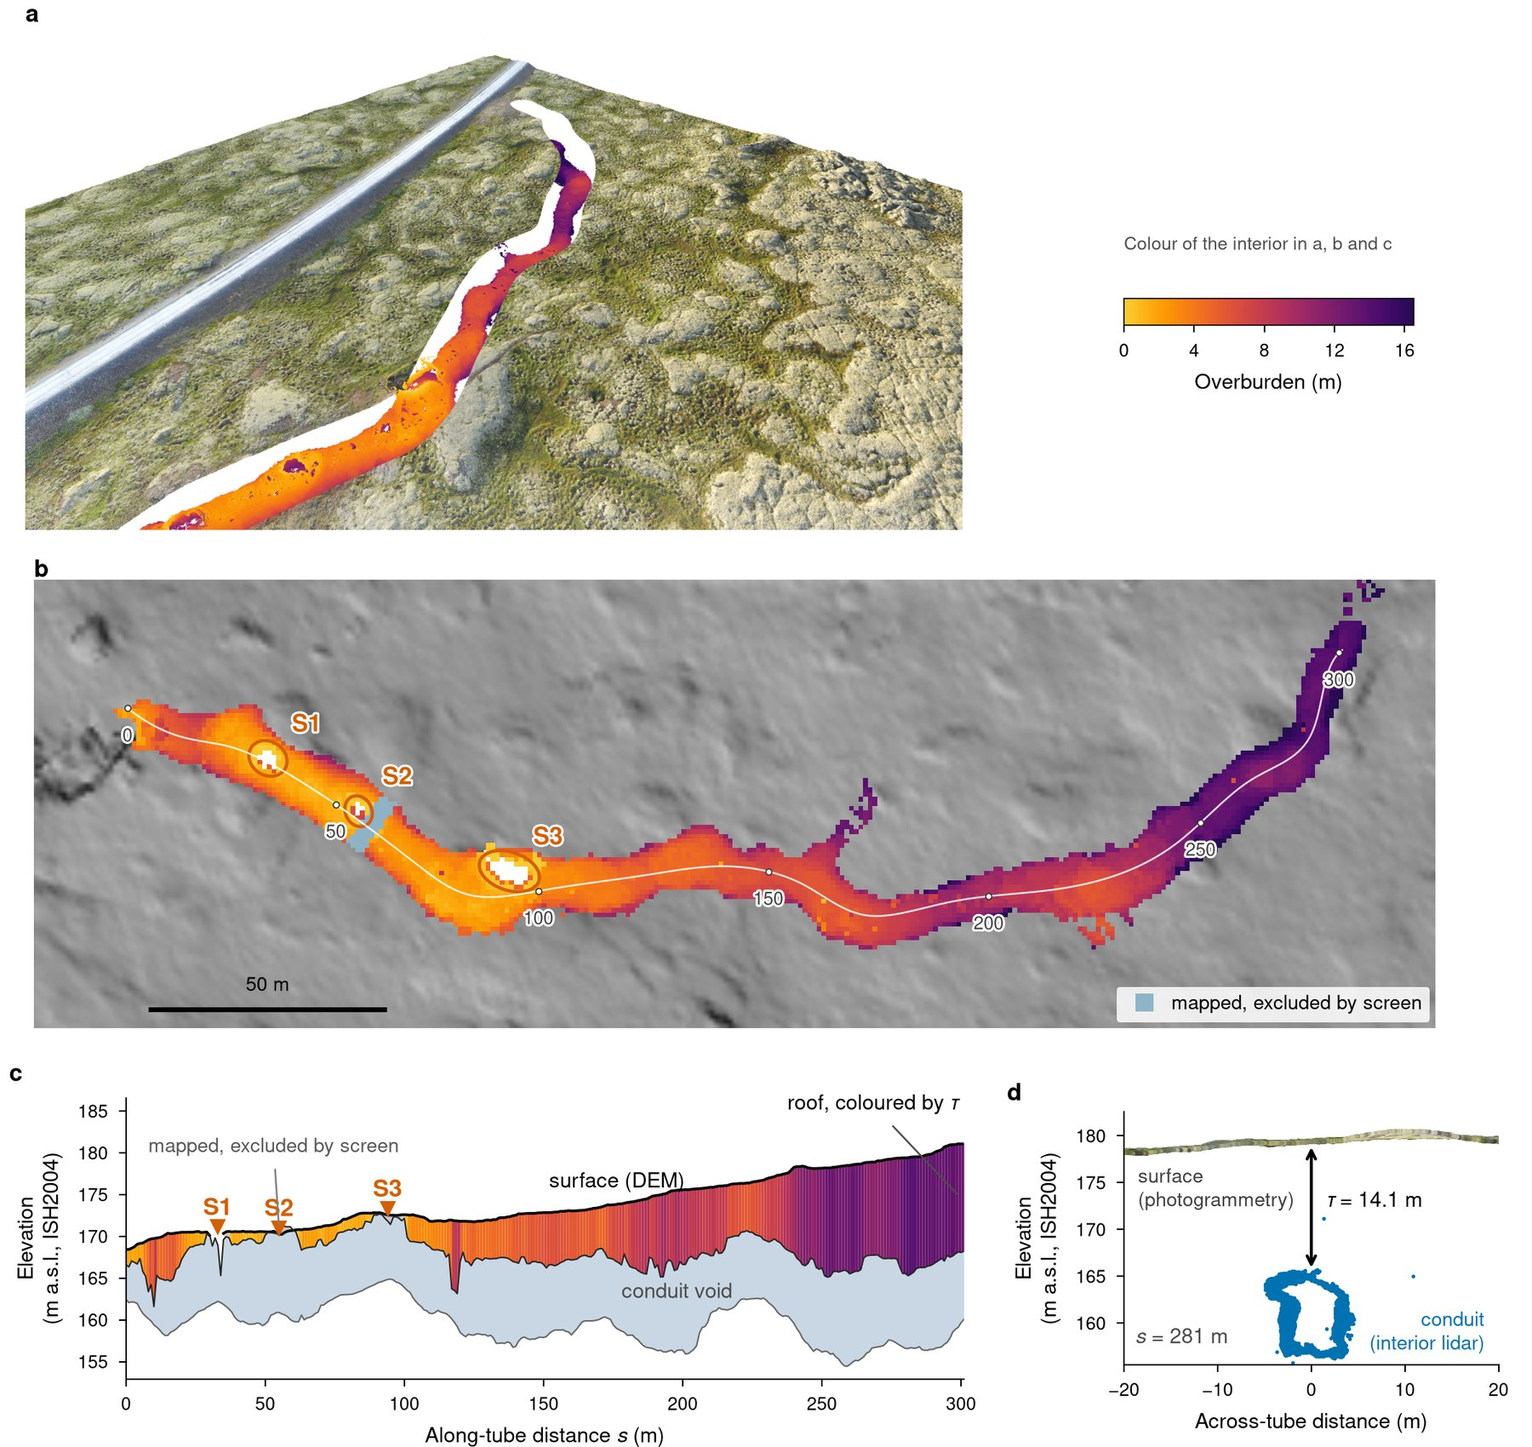
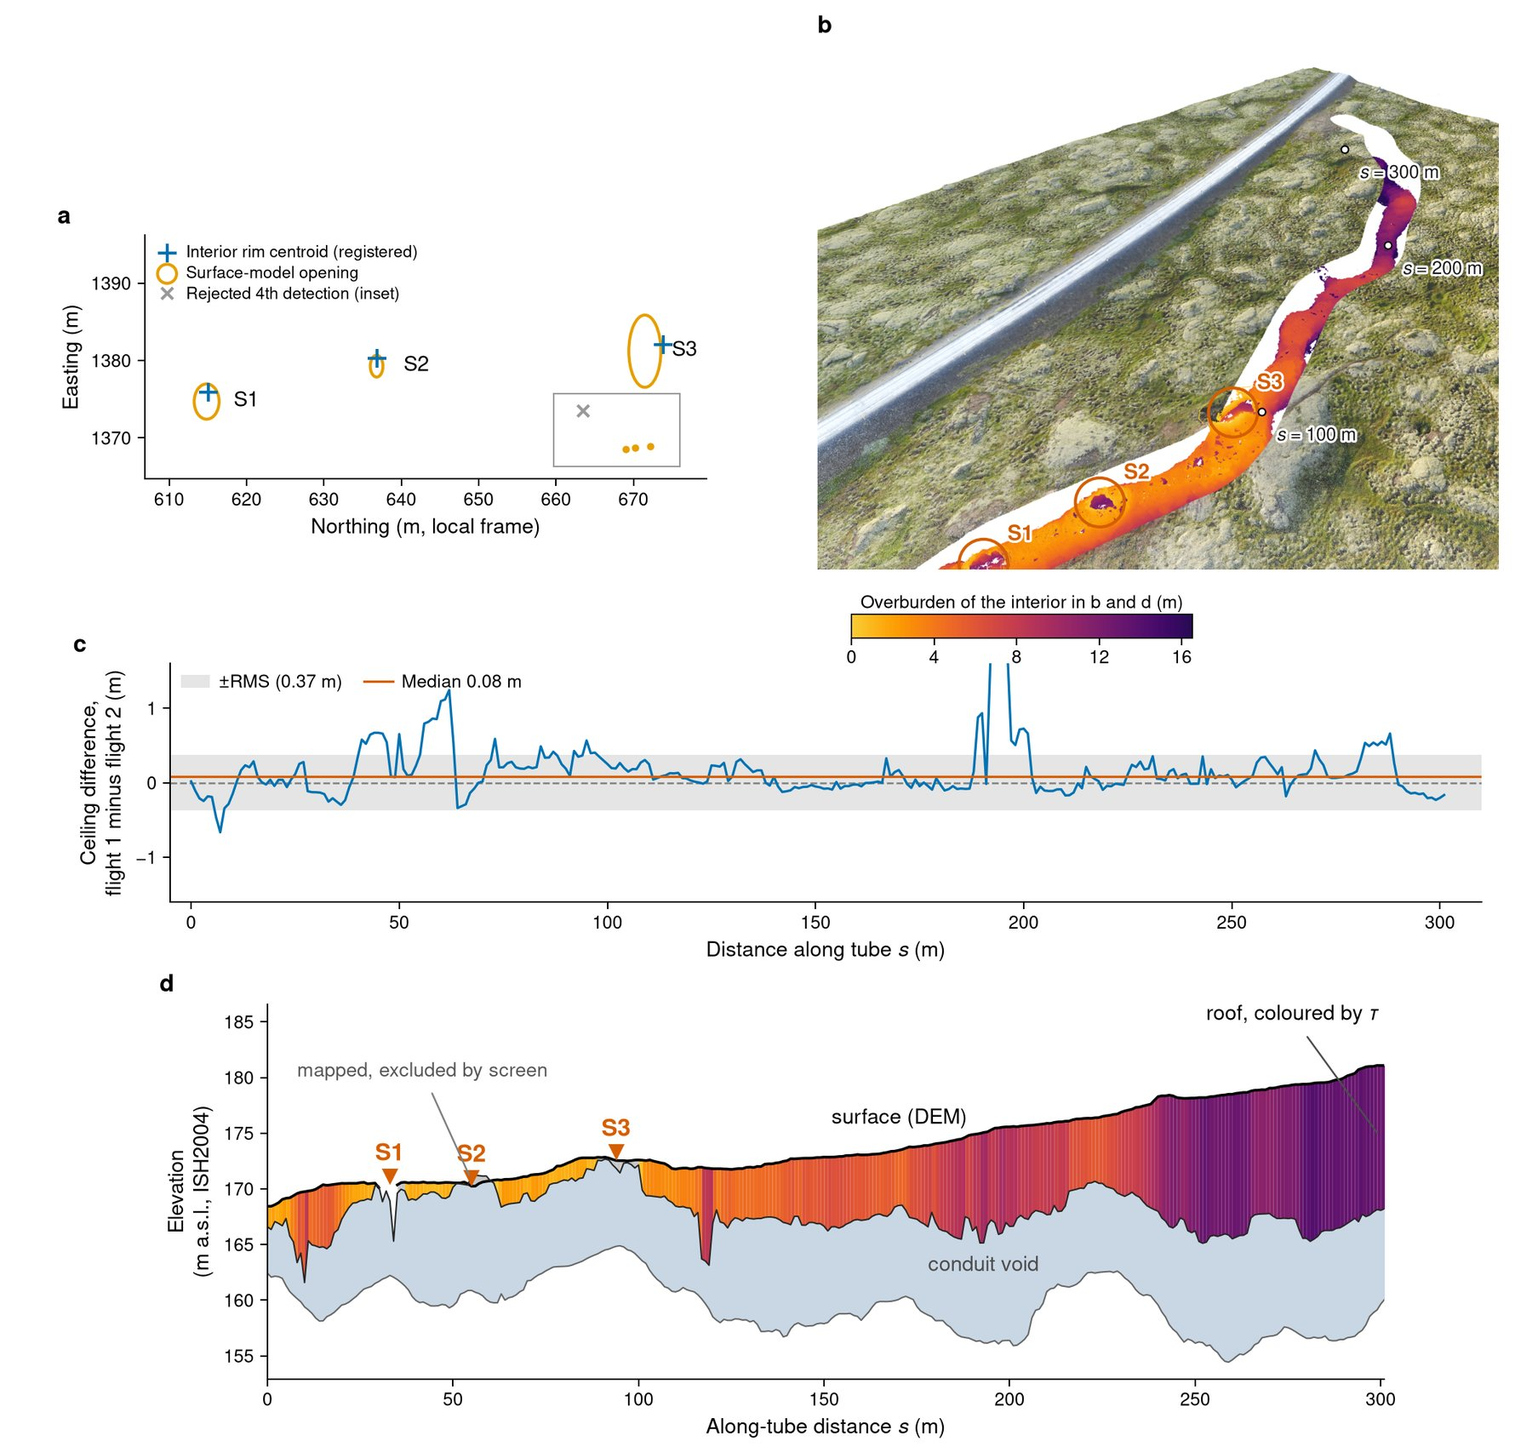
Site: v11 text and figures (Ed's framing), Figures 1 to 4 and ED 3 and 4 refreshed

diff --git a/index.html b/index.html
@@ -4,10 +4,10 @@
   <meta charset="utf-8">
   <meta name="viewport" content="width=device-width, initial-scale=1">
   <title>Autonomous interior survey of a lava tube for planetary habitat assessment</title>
-  <meta name="description" content="An autonomous aerial robot mapped 300 m of the closed section of Raufarhólshellir, Iceland, in one flight and measured the rock cover above the tube at every metre. Tape measurements at the skylight rims agree with the lidar to 0.3 m. Summary, figures, ground truth, data and code.">
+  <meta name="description" content="An autonomous aerial robot explored and mapped 300 m of the closed section of Raufarhólshellir, Iceland, after a single start command. Registered to the surface through three skylights, the map gives the cavity geometry and the rock cover at every metre, and a test with degraded surface models shows where the workflow transfers to the Moon and Mars.">
   <meta name="author" content="Akash Patel, Nikolaos Stathoulopoulos, Edward W. Llewellin, Birgir V. Óskarsson, George Nikolakopoulos">
   <meta property="og:title" content="Autonomous interior survey of a lava tube for planetary habitat assessment">
-  <meta property="og:description" content="300 m of a lava tube mapped in one autonomous flight, a roof-thickness profile at every metre, and a tape check at the rims that agrees to 0.3 m.">
+  <meta property="og:description" content="An end-to-end autonomous survey of a lava tube: exploration without positioning or piloting, registration to the surface through skylights, and physical measurements from the combined model.">
   <meta property="og:type" content="website">
   <meta property="og:image" content="assets/figures/fig3_merged_model.jpg">
   <link rel="preconnect" href="https://fonts.googleapis.com">
@@ -69,7 +69,7 @@
       <div class="fact"><div class="num">300 m</div><div class="lbl">of the closed section of Raufarhólshellir mapped in one autonomous flight</div></div>
       <div class="fact"><div class="num">0</div><div class="lbl">commands after launch, and no positioning infrastructure in the tube</div></div>
       <div class="fact"><div class="num">3</div><div class="lbl">skylights anchor the interior map to an independent surface model</div></div>
-      <div class="fact"><div class="num">1 m</div><div class="lbl">spacing of the rock-cover profile along the tube</div></div>
+      <div class="fact"><div class="num">0.4 m</div><div class="lbl">agreement between two independent flights on the interior ceiling</div></div>
       <div class="fact"><div class="num">14 m</div><div class="lbl">thickest cover measured, under the road at the far end of the survey</div></div>
       <div class="fact"><div class="num">0.3 m</div><div class="lbl">agreement between the lidar roof thickness and a tape at seven skylight rims</div></div>
       <div class="fact"><div class="num">2 to 14 m</div><div class="lbl">of rock cover along the surveyed reach</div></div>
@@ -81,9 +81,9 @@
     <div class="wrap">
       <div class="section-head"><span class="num">01</span><h2 id="summary-h">Summary</h2></div>
       <div class="measure">
-        <p>A lava tube is the tunnel left behind when a basalt flow drains. On the Moon and Mars such tubes are the leading candidates for crewed shelters. A roof of a few metres of basalt cuts the cosmic-ray dose by orders of magnitude and flattens the swing between day and night. Orbital cameras have found hundreds of openings. A camera sees only the hole. It cannot tell how thick the roof is, what the void beneath looks like, or whether the roof will hold. On Earth the roof has been measured at a few transects with radar, never along a tube.</p>
-        <p>We flew a small autonomous aerial robot into Raufarhólshellir, a lava tube near Reykjavík, and let it map 300 metres of the closed section on its own. It carried a spinning lidar and an inertial unit, ran its own state estimator, exploration planner and mission supervisor, and received one command: start. The map it returned is registered to a photogrammetric model of the ground above through the three skylights that both data sets see. Subtracting the ceiling from the surface gives the rock cover at every metre along the tube. It is close to zero at the collapses, 14 metres under the road at the far end and 6 metres in the median.</p>
-        <p>Two results follow. The cover shields against cosmic rays almost everywhere, so what limits a shelter is whether the roof stands, and the spans that stand here demand rock strengths inside the range measured for jointed basalt. And the measurement survives when the surface model is degraded to the quality of orbital terrain models, so the same workflow would work at a Martian or lunar skylight with an orbiter's map and a robot's flight.</p>
+        <p>Lava tubes are caves left behind when the molten interior of a lava flow drains out. On the Moon and Mars they are targets for exploration because rock cover attenuates cosmic radiation, subsurface temperatures vary less than those at the surface, and caves can preserve geological and possibly biological records. Orbital observations have identified many candidate entrances, but a skylight identifies an access point and shows nothing of the cavity beyond it, the thickness of material above it, or whether the route through the interior is intact. Direct investigation will therefore require robotic systems that can survey an unknown subsurface environment without external positioning, reliable communication or a prior map.</p>
+        <p>We tested that complete workflow in Raufarhólshellir, a 1,360 m basaltic lava tube in southwest Iceland. Following a single start command, an aerial robot explored and mapped approximately 300 m of the closed section using onboard lidar-inertial state estimation, mapping, planning and supervision, with no external positioning and no pilot input. Two independent flights reproduced the interior geometry to 0.4 m root mean square. Three natural skylights, visible in both the interior lidar and an independently acquired photogrammetric model of the surface, were then used to register the interior reconstruction to the ground above, without markers or surveyed control inside the cave.</p>
+        <p>The registered model gives the cavity dimensions and the overburden, the vertical distance between the mapped ceiling and the ground surface, at every metre along the tube: close to zero at the collapses, 12 to 14 m over the final 50 m, 6.0 m in the median. These are the quantities that shielding and roof-stability assessments require, and we carry them through to areal shielding mass and to the rock strength that each standing span demands. Repeating the analysis with the surface model degraded to the quality of orbital stereo topography shows that the workflow holds at HiRISE-like and LROC-like resolution and is not reliable at CTX-like resolution.</p>
         <p class="note">The flights took place in April 2025. The surface model is an eBee X RTK photogrammetric survey that Birgir V. Óskarsson of the Natural Science Institute of Iceland flew on 28 August 2025. In September 2026 he went back and measured the roof at the skylight rims with a tape; the section <a href="#groundtruth">Checked on site</a> compares his numbers with ours.</p>
       </div>
     </div>
@@ -122,42 +122,42 @@
       <p class="measure note">Click a figure to open it at full size. The legends are those of the manuscript.</p>
 
       <figure class="figure" id="fig1">
-        <a class="frame" href="assets/figures/fig1_anatomy_site.jpg" data-lightbox data-alt="Anatomy of a lava tube and the field site" data-caption="Figure 1 | Anatomy of a lava tube and the field site.">
-          <img src="assets/figures/fig1_anatomy_site.jpg" width="1800" height="1100" alt="Anatomy of a lava tube and the field site" loading="lazy">
+        <a class="frame" href="assets/figures/fig1_anatomy_site.jpg" data-lightbox data-alt="Field setting and autonomous survey system" data-caption="Figure 1 | Field setting and autonomous survey system.">
+          <img src="assets/figures/fig1_anatomy_site.jpg" width="1800" height="1371" alt="Anatomy of a lava tube and the field site" loading="lazy">
         </a>
         <figcaption>
-          <span class="title">Figure 1<span class="sep">|</span>Anatomy of a lava tube and the field site</span>
-          <p><b>a</b>, Long section and cross-section of a basaltic lava tube: a roof of stacked flow units under soil encloses the drained conduit; where the roof has failed a skylight opens to the surface and breakdown blocks pile on the floor. The overburden <i>τ</i> is the vertical separation between the surface and the highest interior ceiling; <i>L</i> is the conduit span. An orbiter resolves only the skylight aperture; the skylight rim is the one feature seen both from above and from within, and is the registration anchor between the two data sets. <b>b</b>, Raufarhólshellir, southwest Iceland (inset): the surveyed reach of the tube (centreline, white) under the August 2025 orthomosaic, with the entrance, the three skylights S1 to S3 and the road that crosses the tube at the far end of the survey; the dashed line continues the tube along the 1970 map sheet beyond the surveyed reach.</p>
+          <span class="title">Figure 1<span class="sep">|</span>Field setting and autonomous survey system</span>
+          <p><b>a</b>, Schematic long section through a lava tube that illustrates the observational problem: surface observations can identify skylights and other openings, but do not reveal the geometry of the cavity beyond them or the thickness of the material above it. <b>b</b>, Location and plan view of Raufarhólshellir, southwest Iceland, showing the surveyed section, the entrance and the three skylights on the August 2025 orthomosaic; the dashed line continues the tube along the 1970 map sheet beyond the surveyed reach, and the tube extends for approximately 1,360 m. <b>c</b>, The aerial robot (dashed box) in flight in a chamber beneath a skylight, where wind-blown snow forms a cone on the floor. <b>d</b>, Two views of the closed section, a dark constriction and a breakdown chamber, showing the range of conduit geometries encountered during autonomous exploration.</p>
         </figcaption>
       </figure>
 
       <figure class="figure" id="fig2">
-        <a class="frame" href="assets/figures/fig2_survey.jpg" data-lightbox data-alt="Autonomous survey of Raufarhólshellir" data-caption="Figure 2 | Autonomous survey of Raufarhólshellir.">
+        <a class="frame" href="assets/figures/fig2_survey.jpg" data-lightbox data-alt="Autonomous exploration and repeatability of the interior survey" data-caption="Figure 2 | Autonomous exploration and repeatability of the interior survey.">
           <img src="assets/figures/fig2_survey.jpg" width="1800" height="1600" alt="Autonomous survey of Raufarhólshellir" loading="lazy">
         </a>
         <figcaption>
-          <span class="title">Figure 2<span class="sep">|</span>Autonomous survey of Raufarhólshellir</span>
-          <p><b>a</b>, The aerial robot (dashed boxes) in the daylit chamber beneath a skylight, where wind-blown snow forms a cone, and in a dark constriction of the closed section. <b>b</b>, The lidar-inertial reconstruction of one mission at an early and at the final stage, coloured by height. <b>c</b>, The rolling global graph (light nodes and edges) over the reconstruction, with the validated route from the robot to the nearest skylight drawn in red; each skylight is held as a persistent frontier that doubles as an exit.</p>
+          <span class="title">Figure 2<span class="sep">|</span>Autonomous exploration and repeatability of the interior survey</span>
+          <p><b>a</b>, The onboard lidar map early and later in the principal autonomous mission, in the same frame, with the flown trajectory drawn through the reconstructed conduit. <b>b</b>, Autonomous exploration within the partially mapped environment: the executed trajectory (purple), candidate viewpoints sampled in verified free space (magenta) and the subset with the highest expected gain (boxed). <b>c</b>, Plan view of the final reconstruction of the principal mission, coloured by elevation; the robot flew 298 m and reached 235 m from the launch point, and lidar observations extend the mapped conduit to 301 m. <b>d</b>, Difference in mapped ceiling elevation between the onboard map and the higher-resolution offline reconstruction of the same flight, as mean and standard deviation over successive 80 m sections of the conduit.</p>
         </figcaption>
       </figure>
 
       <figure class="figure" id="fig3">
-        <a class="frame" href="assets/figures/fig3_merged_model.jpg" data-lightbox data-alt="The registered surface-subsurface model of Raufarhólshellir" data-caption="Figure 3 | The registered surface-subsurface model of Raufarhólshellir.">
+        <a class="frame" href="assets/figures/fig3_merged_model.jpg" data-lightbox data-alt="Registration of the autonomous interior survey to the surface" data-caption="Figure 3 | Registration of the autonomous interior survey to the surface.">
           <img src="assets/figures/fig3_merged_model.jpg" width="1800" height="1700" alt="The registered surface-subsurface model of Raufarhólshellir" loading="lazy">
         </a>
         <figcaption>
-          <span class="title">Figure 3<span class="sep">|</span>The registered surface-subsurface model of Raufarhólshellir</span>
-          <p><b>a</b>, The photogrammetric surface (true colour) with a swath 8 m either side of the centreline removed along the conduit to expose the interior lidar reconstruction, coloured by depth beneath the surface; the road at the left gives scale. <b>b</b>, Plan view: overburden per 1 m cell over the shaded relief, with the centreline (white), arc-length marks every 50 m, the skylights S1 to S3 (orange; white cells inside the openings, where the surface model has no return) and the stations excluded from the statistics (blue-grey). <b>c</b>, Long section along the centreline: surface, interior ceiling and floor, with the cover coloured by <i>τ</i> where retained and grey where excluded; vertical exaggeration 3×. <b>d</b>, Transverse slice at <i>s</i> = 281 m: the surface skin and the interior lidar section at the same horizontal position, with the intervening slab dimensioned.</p>
+          <span class="title">Figure 3<span class="sep">|</span>Registration of the autonomous interior survey to the surface</span>
+          <p><b>a</b>, Plan view of the three skylights as detected in the surface photogrammetric model (orange ellipses) and the interior rim centroids after registration (blue crosses); the inset shows a fourth candidate detection that the matching rule rejected. <b>b</b>, Oblique view of the registered surface and interior datasets, with the interior coloured by overburden, the three skylights ringed and along-tube stations marked at 100, 200 and 300 m. <b>c</b>, Independent repeatability test: the difference in mapped ceiling elevation between the two long autonomous flights at each one-metre station, after each interior reconstruction was registered independently to the surface; the line marks the median and the band the root mean square. <b>d</b>, Long section along the centreline of the registered model: the ground surface, the conduit void and the roof coloured by overburden, with the three skylights marked.</p>
         </figcaption>
       </figure>
 
       <figure class="figure" id="fig4">
-        <a class="frame" href="assets/figures/fig4_geometry_cover.png" data-lightbox data-alt="Geometry and rock cover along the surveyed tube" data-caption="Figure 4 | Geometry and rock cover along the surveyed tube.">
+        <a class="frame" href="assets/figures/fig4_geometry_cover.png" data-lightbox data-alt="Geometric and physical measurements derived from the autonomous survey" data-caption="Figure 4 | Geometric and physical measurements derived from the autonomous survey.">
           <img src="assets/figures/fig4_geometry_cover.png" width="1800" height="1700" alt="Geometry and rock cover along the surveyed tube" loading="lazy">
         </a>
         <figcaption>
-          <span class="title">Figure 4<span class="sep">|</span>Geometry and rock cover along the surveyed tube</span>
-          <p><b>a</b>, Plan of the centreline with the skylights and ticks every 50 m. <b>b</b>, Cross-section area, width and height against along-tube distance; orange bands mark the skylights. <b>c</b>, Overburden <i>τ</i> against along-tube distance; the shaded band is the systematic registration-datum uncertainty of ±1.5 m common to all stations, and grey ticks mark stations excluded by the consistency screen. <b>d</b>, Centreline elevation. <b>e</b>, Distribution of <i>τ</i> over the 276 retained stations (vertical line, median), with the areal shielding mass at 2,600 kg m<sup>-3</sup> on the upper axis; the two modes are the skylight reach and the far reach. <b>f</b>, Overburden against local span <i>L</i> for intact roof (green) and the failed spans at the skylights (orange), with the minimum thickness required under the clamped-strip model at rock-mass tensile strengths <i>σ</i><sub>t</sub> of 0.5, 1 and 2.5 MPa (black curves).</p>
+          <span class="title">Figure 4<span class="sep">|</span>Geometric and physical measurements derived from the autonomous survey</span>
+          <p><b>a</b>, Plan view of the extracted cavity centreline, with one-metre measurement stations and the entrance and three skylights marked. <b>b</b>, Cross-sectional area, width and height along the surveyed reach. <b>c</b>, Overburden, defined as the vertical distance between the mapped ceiling and the independently surveyed ground surface. The shaded band shows the ±1.5 m systematic registration uncertainty; stations excluded by the geometric consistency screen are indicated separately. <b>d</b>, Distribution of overburden for the 276 retained stations, with the corresponding areal shielding mass calculated for a bulk density of 2,600 kg m<sup>-3</sup>. <b>e</b>, Overburden against local cavity span for intact sections and skylight collapses. Curves show the thickness required by the clamped-strip model for rock-mass tensile strengths of 0.5, 1 and 2.5 MPa.</p>
         </figcaption>
       </figure>
 
@@ -186,7 +186,7 @@
             <div class="thumb"><img src="assets/figures/ed3_planner_behaviour_thumb.jpg" alt="Extended Data Figure 3: exploration behaviour of the planner inside the conduit" loading="lazy"></div>
             <div class="cap"><span class="id">Extended Data Fig. 3</span>Exploration behaviour of the planner inside the conduit</div>
           </a>
-          <a class="ed-item" href="assets/figures/ed5_registration_consistency.png" data-lightbox data-alt="Extended Data Figure 4: registration validation and the map consistency screen" data-caption="Extended Data Fig. 4 | Registration validation and the map consistency screen.">
+          <a class="ed-item" href="assets/figures/ed5_registration_consistency.jpg" data-lightbox data-alt="Extended Data Figure 4: registration validation and the map consistency screen" data-caption="Extended Data Fig. 4 | Registration validation and the map consistency screen.">
             <div class="thumb"><img src="assets/figures/ed5_registration_consistency_thumb.jpg" alt="Extended Data Figure 4: registration validation and the map consistency screen" loading="lazy"></div>
             <div class="cap"><span class="id">Extended Data Fig. 4</span>Registration validation and the map consistency screen</div>
           </a>
@@ -234,7 +234,7 @@
         </a>
         <figcaption>
           <span class="title">Ground truth<span class="sep">|</span>Tape against lidar at the seven rim points</span>
-          <p><b>a</b>, Roof thickness at the rim: the tape value (black bar; dotted grey, the thicker terrace behind the lip where one exists) against the registered lidar for the offline map, the second flight and the onboard map, and the pipeline overburden at the three nearest intact stations. <b>b</b>, Height from the rim to the floor by tape and from the lidar floor of the two flights. The same panels appear as Extended Data Fig. 4g, h.</p>
+          <p><b>a</b>, Roof thickness at the rim: the tape value (black bar; dotted grey, the thicker terrace behind the lip where one exists) against the registered lidar for the offline map, the second flight and the onboard map, and the pipeline overburden at the three nearest intact stations. <b>b</b>, Height from the rim to the floor by tape and from the lidar floor of the two flights. The same panels appear as Extended Data Fig. 4f, g.</p>
         </figcaption>
       </figure>
 
